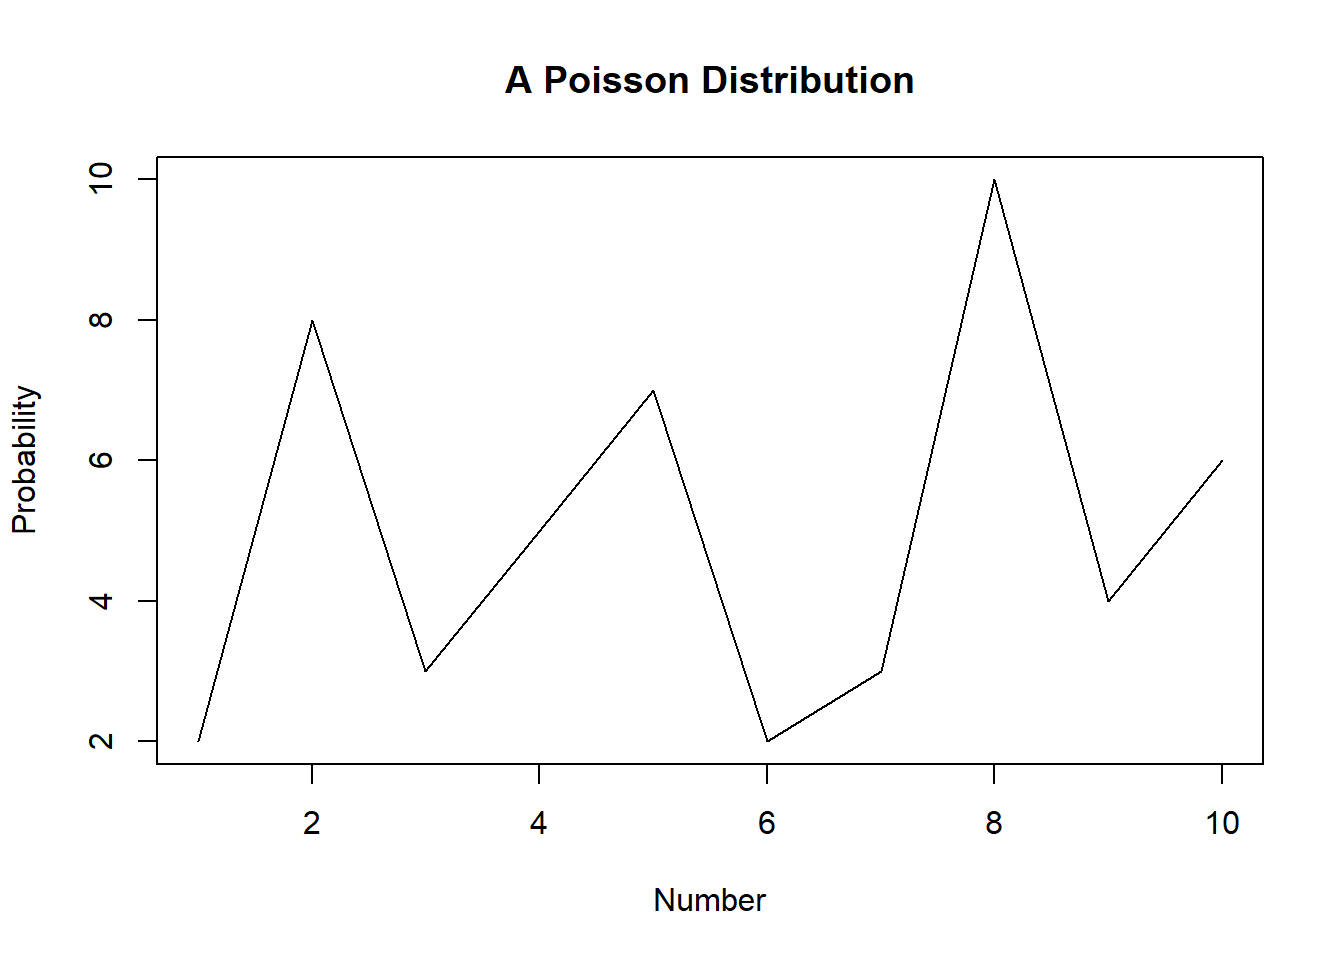
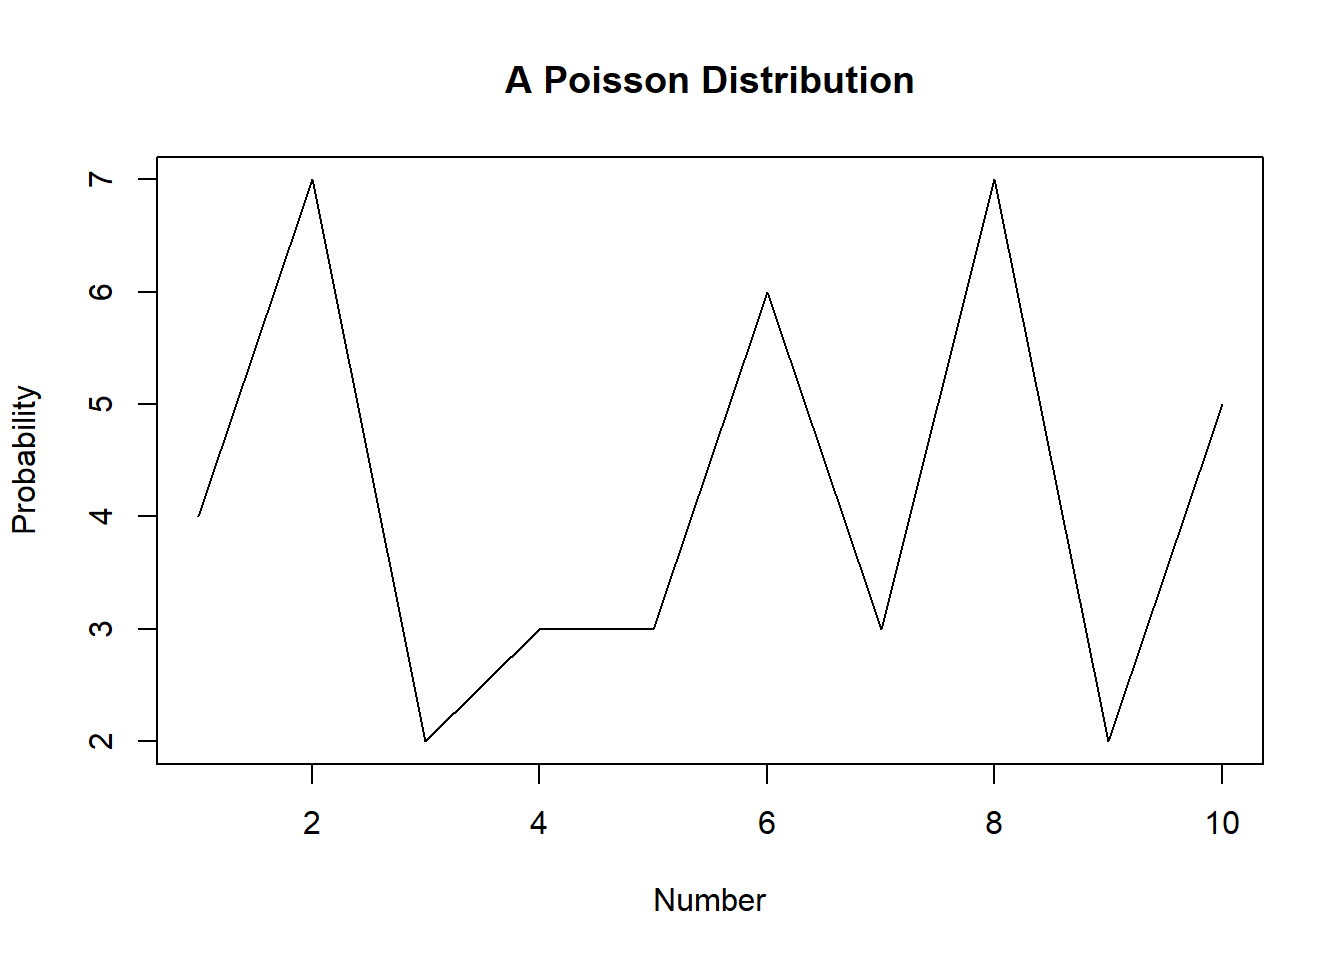
added anaconda stuff

diff --git a/content/post/2021-03-30-introduction-to-r/index.html b/content/post/2021-03-30-introduction-to-r/index.html
@@ -1,5 +1,5 @@
 ---
-title: "Welcome to R"
+title: "R Basics"
 author: "Manish Gyawali"
 date: '2021-03-30'
 output: pdf_document
@@ -16,9 +16,7 @@ categories:
 <script src="{{< blogdown/postref >}}index_files/header-attrs/header-attrs.js"></script>
 
 
-<div id="introduction" class="section level1">
-<h1>Introduction</h1>
-<p>Welcome to R! R is great tool for data analysis. Over the years, the language has seen a lot of growth, and it is now one of the two most common languages used for machine learning (the other being Python).</p>
+<p>Now that you’ve installed R and R Studio, and are familiar with their usage, it is time to perform some data analysis!</p>
 <p>R can be used for econometrics, geospatial analysis (it does not yet have the capabilities of full fledged GIS programs yet, but the capabilities are growing), machine learning, data visualization, text-mining and advanced statistics, among others. Specialized communities have grown up around R to adapt it for their needs.Of these, probably the most relevant is <em>Bioconductor</em>. Bioconductor is almost like a separate ecosystem within R and is associated with cutting edge research in genomics.</p>
 <p>R can be combined with languages like Python, C++ and Stan as these languages have R does not have.</p>
 <div id="data-analysis" class="section level2">
@@ -94,16 +92,16 @@ sd(USArrests$Murder)</code></pre>
 <p>But the mean won’t work if there are missing values in the data, as is often the case.
 Consider the following dataset</p>
 <pre><code>  a b c  d
-1 1 5 5  2
-2 2 2 4  1
-3 3 4 2 NA
-4 4 3 3 NA
-5 5 1 1 NA</code></pre>
+1 1 1 5  2
+2 2 4 5  1
+3 3 5 2 NA
+4 4 3 5 NA
+5 5 2 5 NA</code></pre>
 <p>We have called the data frame <em>df</em>. The details of its construction need not concern us here.Let’s find its structure</p>
 <pre><code>&#39;data.frame&#39;:   5 obs. of  4 variables:
  $ a: int  1 2 3 4 5
- $ b: int  5 2 4 3 1
- $ c: int  5 4 2 3 1
+ $ b: int  1 4 5 3 2
+ $ c: int  5 5 2 5 5
  $ d: int  2 1 NA NA NA</code></pre>
 <p>The data frame has four columns, a,b,c and d. Column d has <em>NA</em> values, which often represent missing data.</p>
 <pre class="r"><code>mean(df$a)
@@ -111,7 +109,7 @@ Consider the following dataset</p>
 mean(df$b)
 [1] 3
 mean(df$c)
-[1] 3
+[1] 4.4
 mean(df$d)
 [1] NA</code></pre>
 <p>The code snippets above produce the (correct) means for columns a,b and c, but a <em>NA</em> for d. But if we want to know the mean for the column, we can disregard the missing values.</p>
@@ -163,12 +161,12 @@ df2 &lt;- data.frame(
 5 5 6
 
 tail(df2,5)
-    c d e   f
-6   6 1 7  56
-7   7 6 9  67
-8   8 5 4  78
-9   9 9 9  89
-10 10 8 8 100</code></pre>
+    c  d  e   f
+6   6  1  6  56
+7   7  4 10  67
+8   8 10  4  78
+9   9  5 10  89
+10 10  8  2 100</code></pre>
 <p>We created a data frame <span class="math inline">\(df\)</span> with two columns, having the column names <em>a</em> and <em>b</em>, and another <span class="math inline">\(df2\)</span> which has four columns, <em>c</em>, <em>d</em>, <em>e</em> and <em>f</em>. If you are using RStudio, two clickable windows containing the two data frames should be visible side by side. You can then click the windows to get the expanded data frames.</p>
 <p>Look at the code for <span class="math inline">\(df\)</span>. It is quite self-explanatory. One column is a sequence of numbers from <span class="math inline">\(1\)</span> to <span class="math inline">\(10\)</span> and the other a sequence from <span class="math inline">\(2\)</span> to <span class="math inline">\(11\)</span>. <span class="math inline">\(1:x\)</span> and <span class="math inline">\(seq(x)\)</span> are identical ways of obtaining a sequence of numbers from <span class="math inline">\(1\)</span> to <span class="math inline">\(x\)</span>.</p>
 <p><span class="math inline">\(df2\)</span> is more interesting. It has four columns. <em>c</em> is a sequence of numbers from <span class="math inline">\(1\)</span> to <span class="math inline">\(10\)</span>. <em>d</em> is a random sample of integers from <span class="math inline">\(1\)</span> to <span class="math inline">\(10\)</span> in which the numbers are generated <em>without replacement</em>. <em>e</em> is a random sample of integers from 1 to 10 <em>with replacement</em>. <em>f</em> is a sequence of integers from <span class="math inline">\(1\)</span> to <span class="math inline">\(100\)</span> in which the difference is always <span class="math inline">\(11\)</span>. If we had not used the additional <span class="math inline">\(length.out = 10\)</span> argument, the numbers would be incremented by <span class="math inline">\(1\)</span>, and we would not be able to form the data frame as the number of elements in this column would be much greater than the numbers in the other columns!</p>
@@ -194,14 +192,14 @@ distribution(n,start,end)
 <pre class="r"><code># Generating 10 numbers from a uniform distribution that lie between
 ## 0 and 1
 runif(10,0,1) 
- [1] 0.78306562 0.31880728 0.48107498 0.06588016 0.80884825 0.29912264
- [7] 0.71930885 0.35404549 0.56266439 0.12021836
+ [1] 0.59391584 0.42667118 0.11805600 0.43865063 0.85179049 0.22428934
+ [7] 0.57516235 0.04594138 0.72580136 0.38168982
 
 # Generating 10 numbers from a normal distribution that lie between
 ## 0 and 1
 rnorm(10,0,1) 
- [1]  0.6258516 -0.6672783  1.6871050 -1.2585458  1.1191078  0.8699569
- [7] -1.9865265 -0.2903475 -1.0889120 -1.9081990</code></pre>
+ [1] -0.6889008  0.6760888 -0.6854069 -1.0262151  0.8795804  0.8026845
+ [7] -0.9143330  1.1264659  0.1383487 -0.2347954</code></pre>
 </div>
 </div>
 <div id="the-central-limit-theorem" class="section level3">
@@ -302,16 +300,16 @@ for(i in seq(10)){
 names(dat) = paste0(&quot;V&quot;,seq(10))
 str(dat)
 &#39;data.frame&#39;:   10 obs. of  10 variables:
- $ V1 : int  2 8 3 5 7 2 3 10 4 6
- $ V2 : int  3 7 8 5 4 5 3 3 4 5
- $ V3 : int  2 10 7 3 5 1 0 3 5 3
- $ V4 : int  6 1 4 5 9 6 3 7 5 1
- $ V5 : int  5 1 5 5 5 6 7 3 3 5
- $ V6 : int  6 5 12 6 4 4 4 5 4 6
- $ V7 : int  4 4 4 6 3 4 6 5 4 5
- $ V8 : int  3 4 6 6 6 5 6 6 11 6
- $ V9 : int  5 2 4 3 6 2 7 5 3 6
- $ V10: int  7 6 3 1 2 5 8 6 4 6</code></pre>
+ $ V1 : int  4 7 2 3 3 6 3 7 2 5
+ $ V2 : int  6 1 5 3 5 3 5 1 5 8
+ $ V3 : int  5 5 7 2 5 2 4 3 5 6
+ $ V4 : int  4 4 4 5 6 2 5 5 4 2
+ $ V5 : int  5 5 2 4 5 11 4 4 4 5
+ $ V6 : int  5 2 7 0 3 8 4 3 3 6
+ $ V7 : int  5 7 4 3 2 6 4 6 3 1
+ $ V8 : int  4 4 2 6 4 1 1 3 3 5
+ $ V9 : int  6 4 5 5 1 6 6 4 7 2
+ $ V10: int  5 2 4 4 4 3 4 2 2 3</code></pre>
 <p>The code above creates a data frame of 10 points generated from a Poisson distribution.
 Notice the <span class="math inline">\(names()\)</span> command. This names <em>columns</em> of a data frame. Here we have only one column, so only one column name <em>V1</em>. If we had not named the column, we would have been given, by default, a very weird column name. So naming is not a must here, but it is good practice.</p>
 <p>Now we have the data frame, and now we can plot it. Notice that, if you are using RStudio, you are automatically promted to enter the correct variable name.</p>
@@ -357,6 +355,5 @@ verify_clt(100)
 verify_clt(250)
 verify_clt(1000)</code></pre>
 <p><img src="{{< blogdown/postref >}}index_files/figure-html/unnamed-chunk-42-1.png" width="672" /></p>
-</div>
 </div>
 </div>

diff --git a/content/post/2021-03-30-introduction-to-dplyr-and-related-programs/index.html b/content/post/2021-03-30-introduction-to-dplyr-and-related-programs/index.html
@@ -1,7 +1,7 @@
 ---
-title: Introduction to dplyr and related programs
+title: Using Packages
 author: Manish Gyawali
-date: '2021-03-30'
+date: '2021-03-31'
 slug: introduction-to-dplyr-and-related-programs
 categories:
   - data
@@ -24,3 +24,43 @@ install.packages(&quot;ggplot2&quot;)</code></pre>
 <p>You can also batch install packages as follows:</p>
 <pre class="r"><code>install.packages(c(&quot;dplyr&quot;,&quot;ggplot2&quot;))</code></pre>
 <p>Once you have installed the packages, you can load them using the <span class="math inline">\(library()\)</span> function as shown earlier. Unfortunately, you cannot batch load packages. Packages have to be loaded individually.</p>
+<p>We will first look at <strong>dplyr</strong>. This package is a comprehensive data management package and has many functions in it. You can see all the functions in it by inputing <em>dplyr::</em> at the console (the bottom section where you type commands). The functions are listed alphabetically. The first function you see is <span class="math inline">\(across()\)</span>. Functions are preceded by a diagonal blue rectangle. Scroll down the list. You will see commands that are preceded by a square white box. These are not commands, but datasets that are contained in the package. The first data set you will see is called <em>band instruments</em>. Click on it.</p>
+<p>You should have printed this:</p>
+<pre class="r"><code>dplyr::band_instruments </code></pre>
+<p>You should have obtained this:</p>
+<pre><code># A tibble: 3 x 2
+  name  plays 
+  &lt;chr&gt; &lt;chr&gt; 
+1 John  guitar
+2 Paul  bass  
+3 Keith guitar</code></pre>
+<p>A <em>tibble</em> is a special type of data frame that is used by dplyr and associated packages.We are done looking at this table, as it is too small to be of interest. Let’s look at another package. Scroll down the list of dplyr commands until you reach the <em>starwars</em> data set and open that in the usual way. You should obtain the following data set.</p>
+<pre><code># A tibble: 87 x 14
+   name    height  mass hair_color  skin_color eye_color birth_year sex   gender
+   &lt;chr&gt;    &lt;int&gt; &lt;dbl&gt; &lt;chr&gt;       &lt;chr&gt;      &lt;chr&gt;          &lt;dbl&gt; &lt;chr&gt; &lt;chr&gt; 
+ 1 Luke S~    172    77 blond       fair       blue            19   male  mascu~
+ 2 C-3PO      167    75 &lt;NA&gt;        gold       yellow         112   none  mascu~
+ 3 R2-D2       96    32 &lt;NA&gt;        white, bl~ red             33   none  mascu~
+ 4 Darth ~    202   136 none        white      yellow          41.9 male  mascu~
+ 5 Leia O~    150    49 brown       light      brown           19   fema~ femin~
+ 6 Owen L~    178   120 brown, grey light      blue            52   male  mascu~
+ 7 Beru W~    165    75 brown       light      blue            47   fema~ femin~
+ 8 R5-D4       97    32 &lt;NA&gt;        white, red red             NA   none  mascu~
+ 9 Biggs ~    183    84 black       light      brown           24   male  mascu~
+10 Obi-Wa~    182    77 auburn, wh~ fair       blue-gray       57   male  mascu~
+# ... with 77 more rows, and 5 more variables: homeworld &lt;chr&gt;, species &lt;chr&gt;,
+#   films &lt;list&gt;, vehicles &lt;list&gt;, starships &lt;list&gt;</code></pre>
+<p>It is an <em>87 X 14</em> tibble. That is, there are <span class="math inline">\(87\)</span> rows and <span class="math inline">\(14\)</span> columns. Look at the table. The first two rows are unnumbered. These rows are not included in the number of rows. They are just markers. The first unnumbered row gives us the names of the columns. The row after that (in italics and enclosed by parantheses) gives us the <em>type</em> of column it is.</p>
+<p>Now let’s move on to dplyr commands. The first command is called <span class="math inline">\(filter()\)</span>. Get help on this by typing, at the console the following:</p>
+<pre class="r"><code>?dplyr::filter</code></pre>
+<p>Actually, since you already loaded the dplyr package, you can just type</p>
+<pre class="r"><code>?filter</code></pre>
+<p>However, this command brings up two options to get help on. The first one is from the package <strong>dplyr</strong> and the second from the package <strong>stats</strong>. This is because there are <em>two</em> commands called <span class="math inline">\(filter()\)</span> located in two different packages. Preceding the command by the package name and a <strong>::</strong> when searching for help brings up the exact command you are looking for whereas not specifying the package will give you a list of options as is the case here.</p>
+<p>You can also load (not only get information on) commands or data sets from packages that you have not loaded by doing the same thing. Type the following:</p>
+<pre class="r"><code>MASS::abbey</code></pre>
+<p>You will obtain this:</p>
+<pre><code> [1]   5.2   6.5   6.9   7.0   7.0   7.0   7.4   8.0   8.0   8.0   8.0   8.5
+[13]   9.0   9.0  10.0  11.0  11.0  12.0  12.0  13.7  14.0  14.0  14.0  16.0
+[25]  17.0  17.0  18.0  24.0  28.0  34.0 125.0</code></pre>
+<p>The dataset <strong>abbey</strong> is located in the <em>MASS</em> package. We have not loaded this package, and yet we can access the dataset. (Try entring only <em>abbey</em> in the console. You will get an error message that states that the object <em>‘abbey’</em> cannot be found).</p>
+<p>If we have not loaded a package, we can only access commands that are in it by preceding that command by the package name and an <strong>::</strong>. Every time you need to access the command or data set, you need to do this. If you need to use the command many times then, it is better to directly load the package. If you need to use the package only once or twice, then it may be better to use the package name.</p>

diff --git a/content/post/2021-03-31-welcome-to-r/index.html b/content/post/2021-03-31-welcome-to-r/index.html
@@ -1,0 +1,28 @@
+---
+title: Setting up RStudio with Anaconda
+author: Manish Gyawali
+date: '2021-03-29'
+slug: setup!
+categories:
+  - r
+  - rstudio
+  - anaconda
+tags: []
+---
+
+<script src="{{< blogdown/postref >}}index_files/header-attrs/header-attrs.js"></script>
+
+
+<p>If you don’t have administrator privileges, it is difficult to get RStudio. One option is to use the <strong>Anaconda</strong> framework. Anaconda is a programming environment built chiefly around the Python programming language, but it also has support for R, and includes RStudio.</p>
+<p>To install Anaconda go to this page <strong><a href="https://www.anaconda.com/products/individual#windows" class="uri">https://www.anaconda.com/products/individual#windows</a></strong> first, and scroll down to the very bottom of the page. You will see a section named <em>Anaconda Installers</em>.</p>
+<p>That should look like this:</p>
+<p><img src="images/anaconda-installers.png" /></p>
+<p>Depending on your operating system and the processor configuration, download the appropriate installer.</p>
+<p>Install the software in an appropriate folder. You cannot install it in the main program folders if you don’t have administrative privileges. It is advisable to create a new folder inside the <strong>My Documents</strong> folder called <strong>Programs</strong>.</p>
+<p>Once you have installed it, open it. You may need to click on an <strong>.exe</strong> file for the first time. Install a shortcut, as you will need to use it repeatedly. You can try to locate it in the Search Bar if you’re using Windows.</p>
+<p>Once you open it, you should see an interface like this:</p>
+<p><img src="images/anaconda-top.png" style="width:150.0%;height:150.0%" />.</p>
+<p>Scroll down till you see the <strong>RStudio</strong> logo.</p>
+<p><img src="images/anaconda-rstudio.png" style="width:150.0%;height:150.0%" /></p>
+<p>There is a clickable button beneath the logo that states <em>Install</em>. Click on that.</p>
+<p>What we’re doing now is calling R from within Anaconda. R should come pre-installed with Anaconda. If not, you need to download R separately and connect the two softwares later.</p>

diff --git a/content/post/2021-03-31-welcome-to-r/index_files/header-attrs/header-attrs.js b/content/post/2021-03-31-welcome-to-r/index_files/header-attrs/header-attrs.js
@@ -1,0 +1,12 @@
+// Pandoc 2.9 adds attributes on both header and div. We remove the former (to
+// be compatible with the behavior of Pandoc < 2.8).
+document.addEventListener('DOMContentLoaded', function(e) {
+  var hs = document.querySelectorAll("div.section[class*='level'] > :first-child");
+  var i, h, a;
+  for (i = 0; i < hs.length; i++) {
+    h = hs[i];
+    if (!/^h[1-6]$/i.test(h.tagName)) continue;  // it should be a header h1-h6
+    a = h.attributes;
+    while (a.length > 0) h.removeAttribute(a[0].name);
+  }
+});
